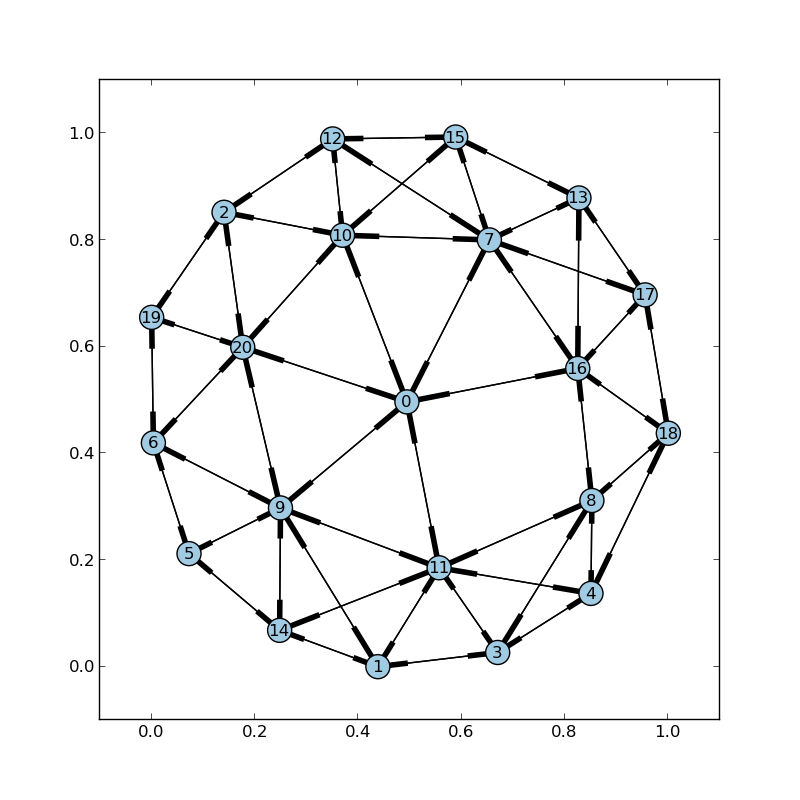
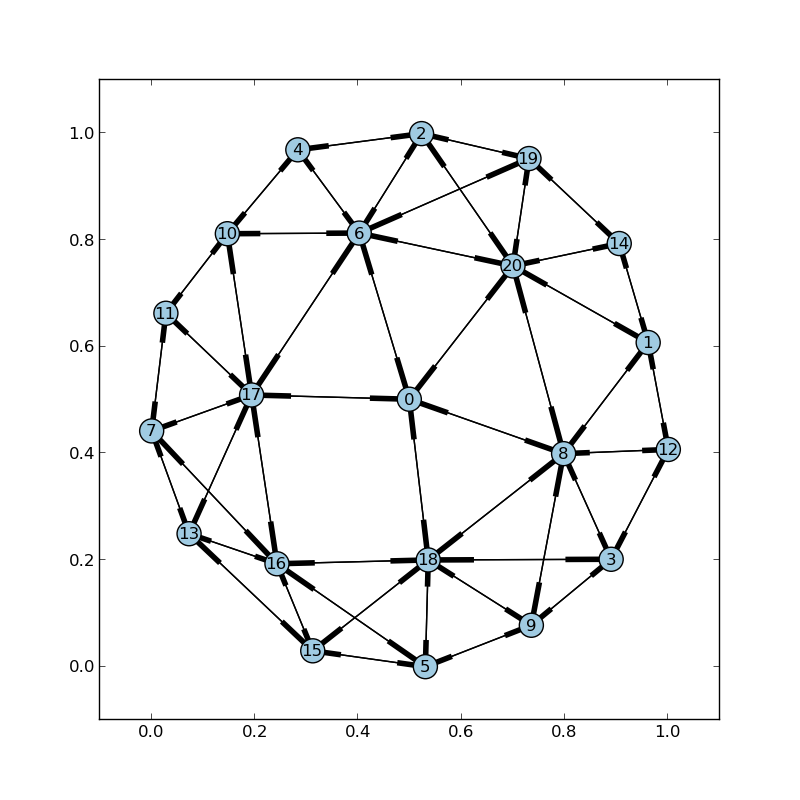
ss

diff --git a/test.py b/test.py
@@ -6,6 +6,7 @@ You must have matplotlib>=87.7 for this to work.
 
 """backup I store some functions that might be useful here
 plt.show() # display the picture in a window  attention that this will block the process, if you want to continue, close it.
+plt.clf() #clear the image
 """
 
 import matplotlib.pyplot as plt
@@ -39,6 +40,17 @@ def get_pairing(G, edges):
             nodes.remove(x)
             nodes.remove(y)
     
+def get_clustering(G, edges):
+    nodes = G.nodes()
+    masters = [];
+    for (x, y) in edges:
+        if ((x in nodes) and (y in nodes)) or ((x in nodes) and (y in masters)):
+            G.add_edge(x, y)
+            nodes.remove(x)
+            if (y in nodes):
+                nodes.remove(y)
+            masters.append(y)
+    
 n = 20;
 edge_thres = 0.15;
 G = nx.star_graph(n)
@@ -62,5 +74,7 @@ remove_all_edges(DG)
 get_pairing(DG, edges)
 drawGraph(DG, pos)
 savePicture()
-plt.clf() #clear the image
+remove_all_edges(DG)
+get_clustering(DG, edges)
+drawGraph(DG, pos)
 savePicture()
